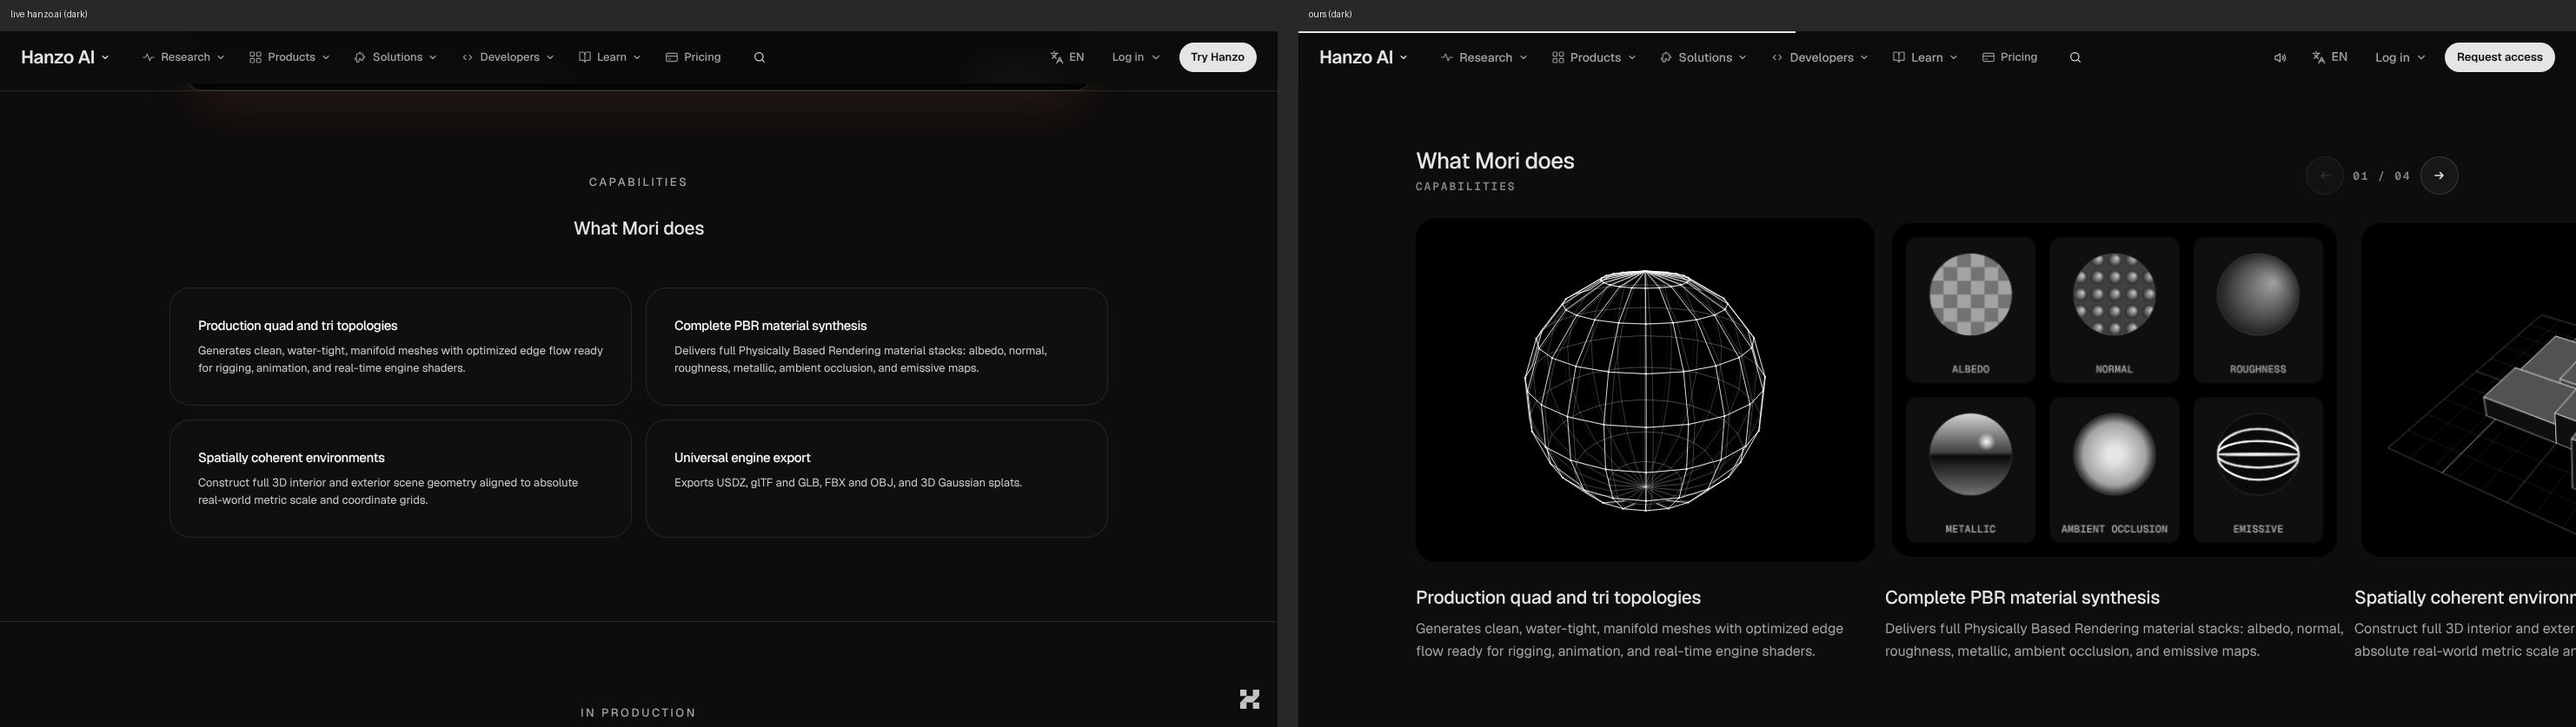
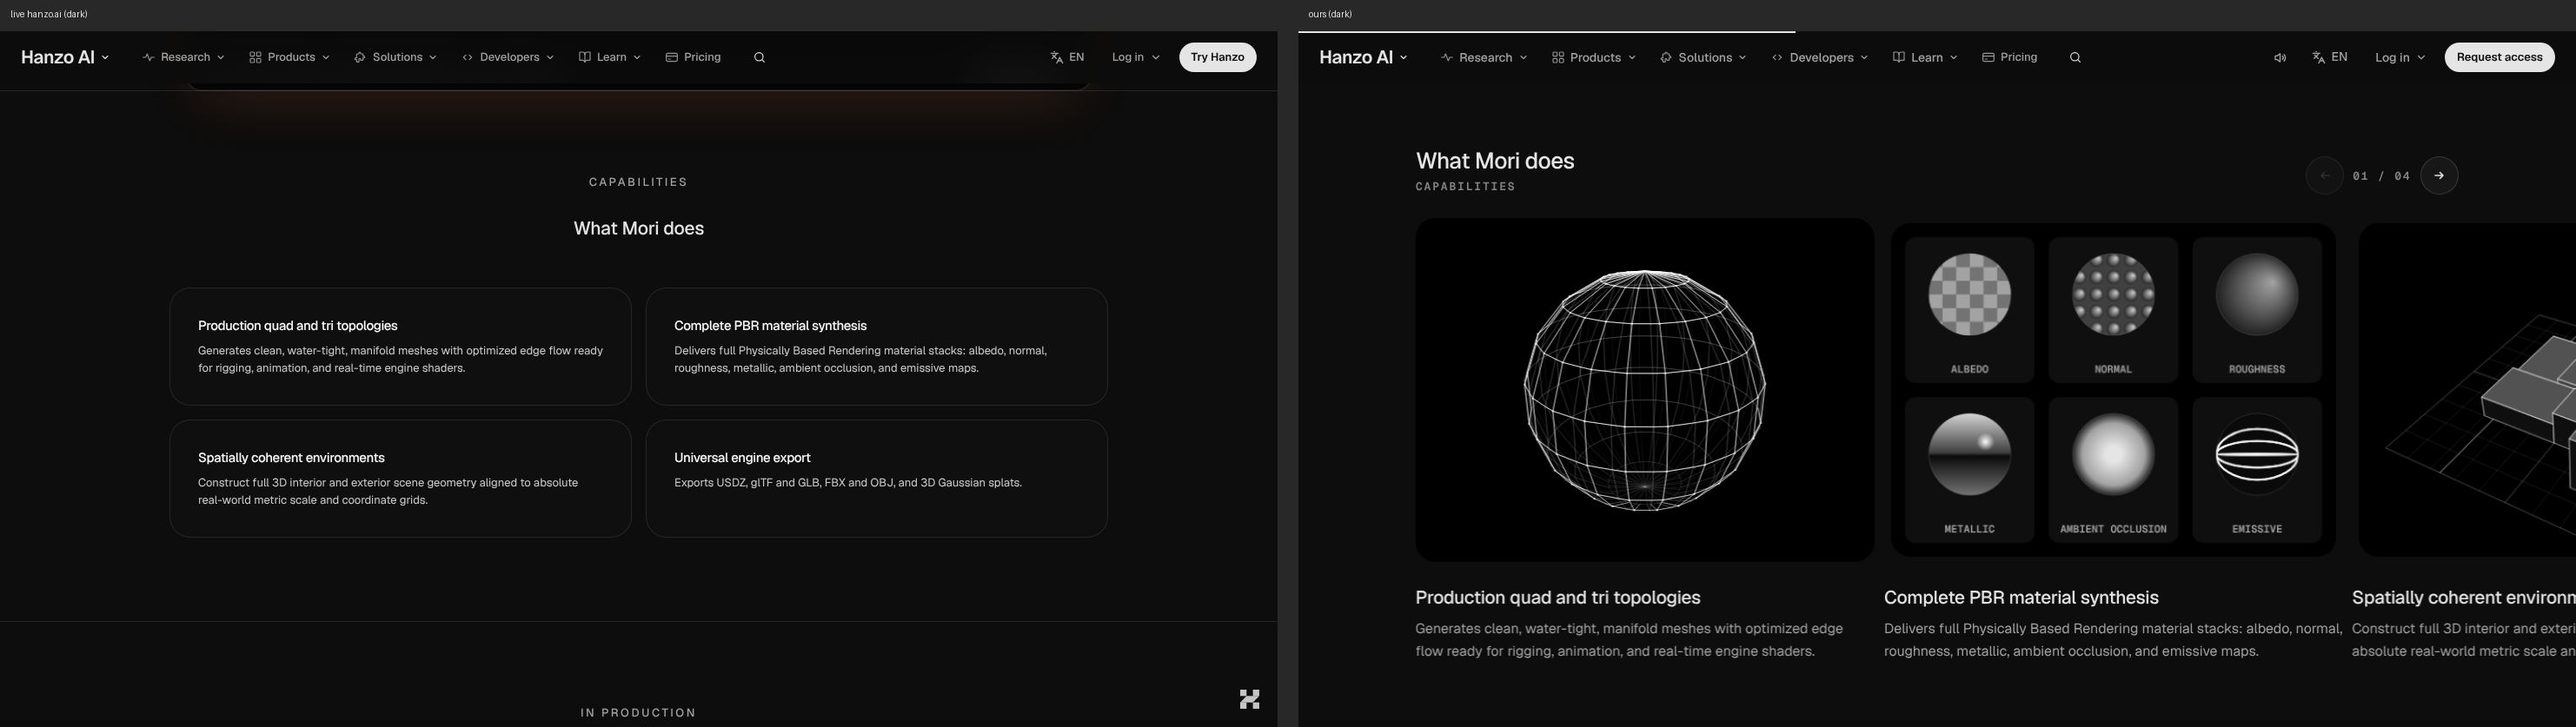
mcp: dark mode — A2 greys on Hanzo's tokens, muted sheets, cards and repo card with hairlines, primary highlights and asks, live's hero halftone and glow; mori: live's hero halftone in the stage
Claude-Session: https://claude.ai/code/session_01P5YBdv7StJZXmK5oNtoxtW

diff --git a/components/pages/McpPage.css b/components/pages/McpPage.css
@@ -364,3 +364,38 @@ main.mcp .x-copy { height: 44px; padding: 0 16px; }
 @media (prefers-reduced-motion: reduce) {
   .mcp *, .mcp *::before, .mcp *::after { animation: none !important; }
 }
+
+/* ---------- dark (docs/DARK-MODE.md): live hanzo.ai/mcp in dark, by role, in Hanzo's own tokens ----------
+   The stream, the "after" half, the config room and the black domain card are black in both modes and stay. A2.css
+   (shared) states its light greys as fixed values, so this page restates them: Hanzo's foreground for headings, muted
+   foreground for body, tertiary text for captions, its border for hairlines and its muted surface for every quiet fill;
+   ink fills and highlights turn to Hanzo's primary (light fill, dark type), as live's selected pills and asks do. */
+html:not(.light) .a2.mcp {
+  --ink: var(--foreground); --acc: var(--foreground); --acc-soft: var(--x-fill); --soft: var(--muted-foreground);
+  --faint: var(--text-tertiary); --card: var(--x-fill); --line: var(--border);
+  & .mcp-hero { position: relative; background: radial-gradient(60% 70% at 50% 0%, color-mix(in srgb, var(--foreground) 9%, transparent), transparent 70%); }
+  & .mcp-hero .mcp-cap.a2-kick.show, & .mcp-cmp-hint, & .mcp-cmp-code > span, & .mcp-sheet-n, & .mcp-card-n, & .mcp-repo dt { color: var(--faint); }
+  & :is(.mcp-oss, .mcp-f > span:last-child, .mcp-cmp-side, .mcp-cmp-bar, .mcp-sheet-copy .a2-body, .mcp-card p, .mcp-repo > p) { color: var(--muted-foreground); }
+  & .after :is(.mcp-cmp-side, .mcp-cmp-bar), & .mcp-card.d5 :is(p, .mcp-card-n) { color: var(--muted-foreground); }
+  /* before / after: "before" on Hanzo's secondary with a muted code well, "after" stays black */
+  & .mcp-cmp-l.before { background: var(--secondary); }
+  & .before .mcp-cmp-code { background: var(--x-fill); }
+  /* the runtime sheets: muted surfaces, the art on the page's own background inside a hairline */
+  & .mcp-sheet, & .mcp-sheet:nth-child(2), & .mcp-sheet:nth-child(3) { background: var(--x-fill); }
+  & .mcp-sheet-art { background: var(--bg); box-shadow: inset 0 0 0 1px var(--border); }
+  & .mcp-art.a0 span { background: var(--x-fill); animation-name: mcp-call-d; }
+  & .mcp-art.a1 i { background: var(--secondary); animation-name: mcp-svc-d; }
+  & .mcp-gate { background: var(--foreground); }
+  & .mcp-cmds span.stop b { background: var(--neutral-600); }
+  /* domain cards: muted cards, chips on Hanzo's secondary that light up in primary (the black card's own motion) */
+  & .mcp-card-tools i { background: var(--secondary); color: var(--foreground); }
+  & .mcp-card.live .mcp-chips.rest i { animation-name: mcp-chip-d; }
+  & .mcp-card.live .mcp-card-open { animation-name: mcp-ring-d; }
+  & .mcp-card-open { color: var(--x-on-ink); }
+  & .mcp-open-card { background: var(--popover); box-shadow: 0 0 0 1px var(--border), 0 40px 120px -30px rgb(0 0 0 / .6); }
+  & .mcp-open-x { background: var(--secondary); color: var(--foreground); border-color: var(--border-strong); }
+  & .mcp-repo .x-btn:not(.solid) { box-shadow: inset 0 0 0 1px var(--border-strong); }
+}
+@media (hover: hover) { html:not(.light) .a2.mcp .mcp-gh:hover { background: var(--secondary); } }
+@keyframes mcp-call-d { 0%, 8% { background: var(--primary); color: var(--primary-foreground); } 16%, 100% { background: var(--muted); color: var(--foreground); } }
+@keyframes mcp-svc-d { 0%, 70%, 100% { background: var(--secondary); } 80% { background: var(--primary); } }

diff --git a/components/pages/model/Mori.jsx b/components/pages/model/Mori.jsx
@@ -12,6 +12,8 @@
    No chapter pane is ever empty: each object rests on its settled frame until its chapter arrives, then draws in.
    V2: Request access is the one solid at both widths; the capabilities ride a snapping carousel, each card its own drawn object, never a blank pane; words through the settle; labels fit at 375; five page-local entrances (MoriMotion.jsx). */
 import { useEffect, useMemo, useRef, useState } from 'react';
+import { createPortal } from 'react-dom';
+import HeroDither from '../HeroDither';
 import { Specs } from './Studio';
 import { MoriFits } from './MoriArt';
 import { ShrinkCard, CapsCarousel, PixelFilters, useEntrances } from './MoriMotion';
@@ -244,11 +246,21 @@ function useMidWords() {
   }, []);
 }
 
+/* live's hero halftone (HeroDither, dark only). The hero is the shared Launch stage, so the dots are portalled into its
+   pinned frame (positioned, so they fill it); z -1 puts them under the film and the headline, over the stage's ground */
+function MoriDither() {
+  const [at, setAt] = useState(null);
+  useEffect(() => { setAt(document.querySelector('.lv-stage[data-hero=mori] .lv-pin')); }, []);
+  return at ? createPortal(<HeroDither />, at) : null;
+}
+
 export default function Mori() {
   usePhoneAsk();
   useMidWords();
   useEntrances();
   return (
+    <>
+    <MoriDither />
     <Creative
       slug="mori"
       shape={HEX}
@@ -276,5 +288,6 @@ export default function Mori() {
         </ShrinkCard>
       }
     />
+    </>
   );
 }

diff --git a/components/pages/McpPage.jsx b/components/pages/McpPage.jsx
@@ -24,6 +24,7 @@ import A2Pause from '../v2/A2Pause';
 import { T, EMPH, MOVE } from '../v2/A2Motion';
 import McpCompare from './mcp/McpCompare';
 import useEnter from './mcp/useEnter';
+import HeroDither from './HeroDither';
 import '../v2/A2.css';
 import './McpPage.css';
 
@@ -96,6 +97,7 @@ function Hero() {
   const viaSeen = useInView(via, { once: true, amount: 0.8 });
   return (
     <section className="mcp-hero" aria-labelledby="mcp-h1">
+      <HeroDither />
       {/* entrance 1, diagonal-wipe: the words, then the stream, then the client row are uncovered by a diagonal clip
           that sweeps left to right on load (CSS only, under html.js, so JavaScript off shows it all at once) */}
       <div className="a2-wrap a2-grid mcp-hero-grid">

diff --git a/docs/review/mcp.md b/docs/review/mcp.md
@@ -2,6 +2,7 @@
 
 Verdict: 7/10
 Ready: 8 Nov, copycheck missing 0 of 48 (live hanzo.ai). Restored "38 unified action tools + 1,538 Cloud operations + 260+ specialized servers" as one line (the rolling figures stay as its aria-hidden picture); the three shell lines now show exactly as Hanzo writes them ("//   hanzo mcp   # stdio; the binary downloads on first run", hanging indent) and each Copy still copies the bare command only; the hero caption and "All MCP Tools Reference" are one leaf each (arrow now an svg). taste/unique OK; 0 console errors, no overlap at 1470x801 and 375x812 (checker hits are the compare slider's clipped layers and the hidden close kicker).
+Dark: 8 Nov, matches live hanzo.ai in dark side by side (docs/gallery/mcp/dark-*.jpg); darkcheck OK, lightcheck OK, copycheck 0. Live's hero halftone (HeroDither) and glow behind the hero. (darkcheck's remaining hits are intended: the two guard names beside the 4px gate bar, which the checker reads as their background, and the compare's difference-blend cursor.)
 First complaint: "On my phone the grey code notes in the black bit run straight off the edge of the screen, and the headline's tiny. On desktop it feels alive, on the phone it feels like a shrunk desktop that isn't finished."
 
 Walked: 2026-11-07. Playwright Chromium, deviceScaleFactor 1. Widths 1470x801 (fine pointer, `(hover: hover)` true), 375x812 (isMobile, touch), 320x640. Warmed the route with curl first (200). Desktop: wheel-scrolled in 100px steps with a 1.3 s dwell on each of 10 screens, compared idle frames 700 ms apart on each, hovered and pressed 12 controls, opened a domain card and filmed the morph at 100/250/450/900 ms, closed it with Esc, mouse-dragged the rail, clicked Copy and parsed the clipboard. Phone: 15 screens, tapped a card open and closed it, measured touch targets. Also ran reduced motion (with a 3 s `getAnimations()` check) and JS off. Repo tools `motion.mjs /mcp` and `phone.mjs /mcp` (desktop: 0 still screens, CLS 0.001; the 5 "DEAD" hovers are Pause, Copy, a code label and the repo link, all checked by hand below). Read-only scripts: `parity.py /mcp` gives text 72/72 and links 5/5. `taste.py` passes. `variety.py` passes. No Next.js error overlay appeared: there were 0 console errors and 0 pageerrors at both sizes, and the `nextjs-portal` host holds only the dev overlay's styles.

diff --git a/docs/review/mori.md b/docs/review/mori.md
@@ -2,7 +2,7 @@
 
 Verdict: 7/10
 Ready: 8 Nov, copycheck missing 0 of 40 (live hanzo.ai). The viewport's "SPINNING · 360°" readout is its own text leaf beside the turning dial (it was split by the dial's element); nothing else changed. taste/unique OK; 0 console errors, no overlap at 1470x801 and 375x812.
-Dark: 8 Nov, matches live hanzo.ai in dark side by side (docs/gallery/mori/dark-*.jpg); darkcheck OK, lightcheck OK, copycheck 0. (darkcheck's one `.cr-tab` hit is the selected studio-map tab: dark type on its light pill, live's selected-pill style; the pill is a child under the text, which the checker does not see.)
+Dark: 8 Nov, matches live hanzo.ai in dark side by side (docs/gallery/mori/dark-*.jpg); darkcheck OK, lightcheck OK, copycheck 0. Live's hero halftone (HeroDither) sits in the stage around the settled cube, portalled into the shared Launch stage's pinned frame. (darkcheck's one `.cr-tab` hit is the selected studio-map tab: dark type on its light pill, live's selected-pill style; the pill is a child under the text, which the checker does not see.)
 First complaint: "I scroll to the next chapter and the picture goes black. There's just an empty box, then the thing draws itself in. And on my phone the words are cut off: 'Gaussian spla…', and 'Ambient occlusion' spills out of its tile."
 
 How I walked it: Playwright, moving, at 1470×801 (fine-pointer hover enabled) and at 375×812. The cookie bar was dismissed and there is no loader on this route. On each half-screen of the wheel walk I took two frames 1 s apart, and I recorded video. I hovered and pressed the asks, links, rail, tabs, tiles, model cards and view chips, switched the viewport between wireframe, shaded and normals, dragged the mesh and used the arrow keys.
